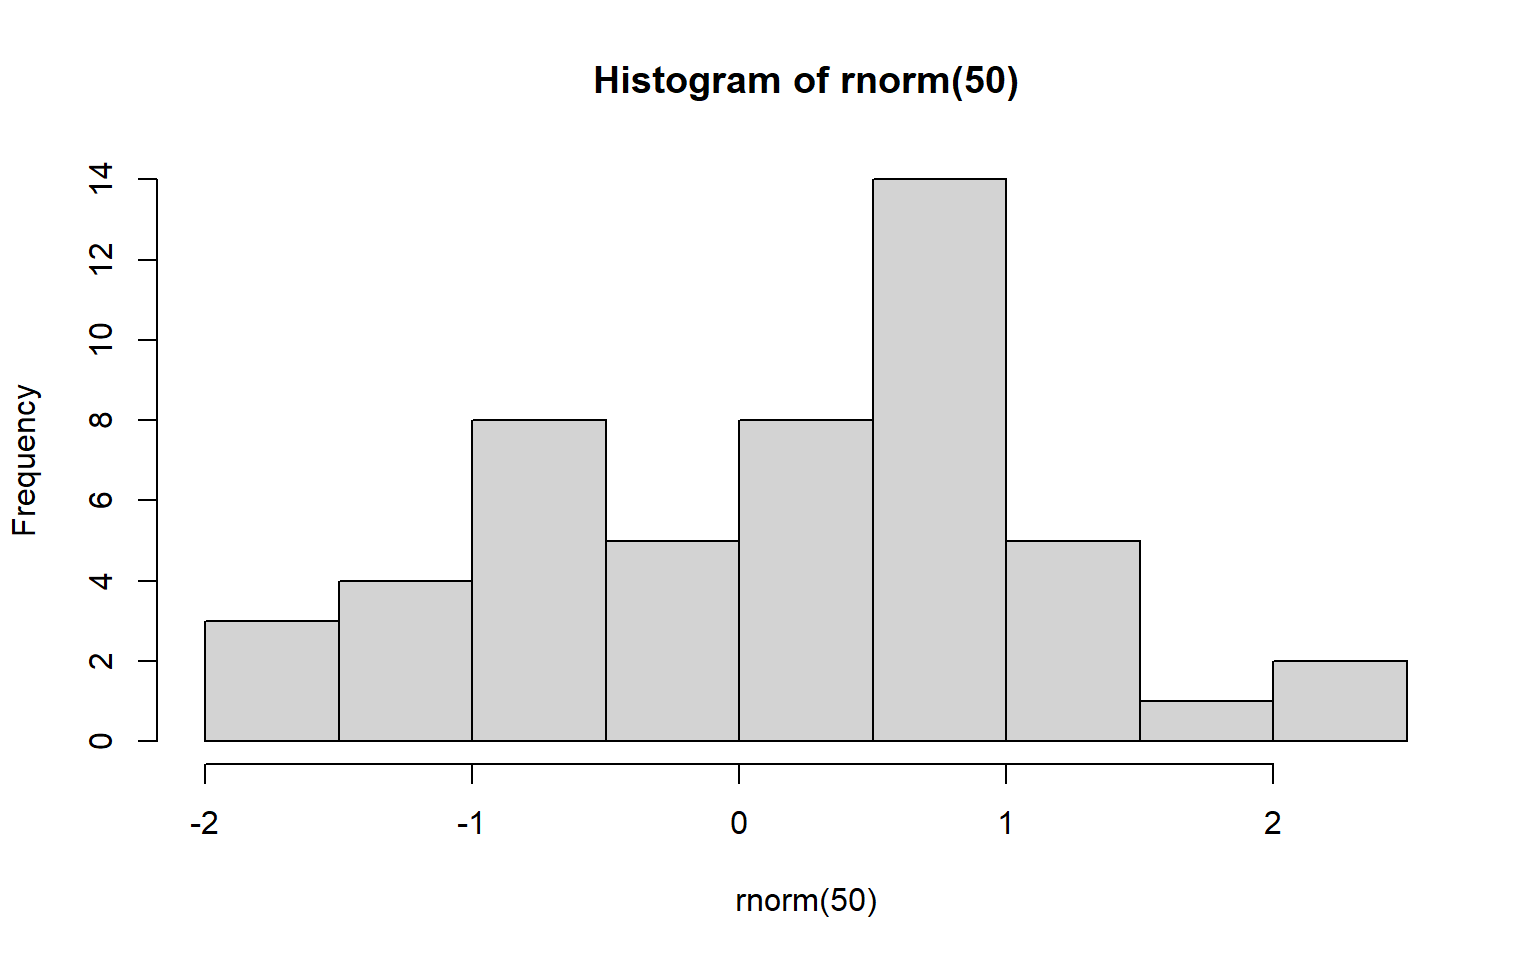
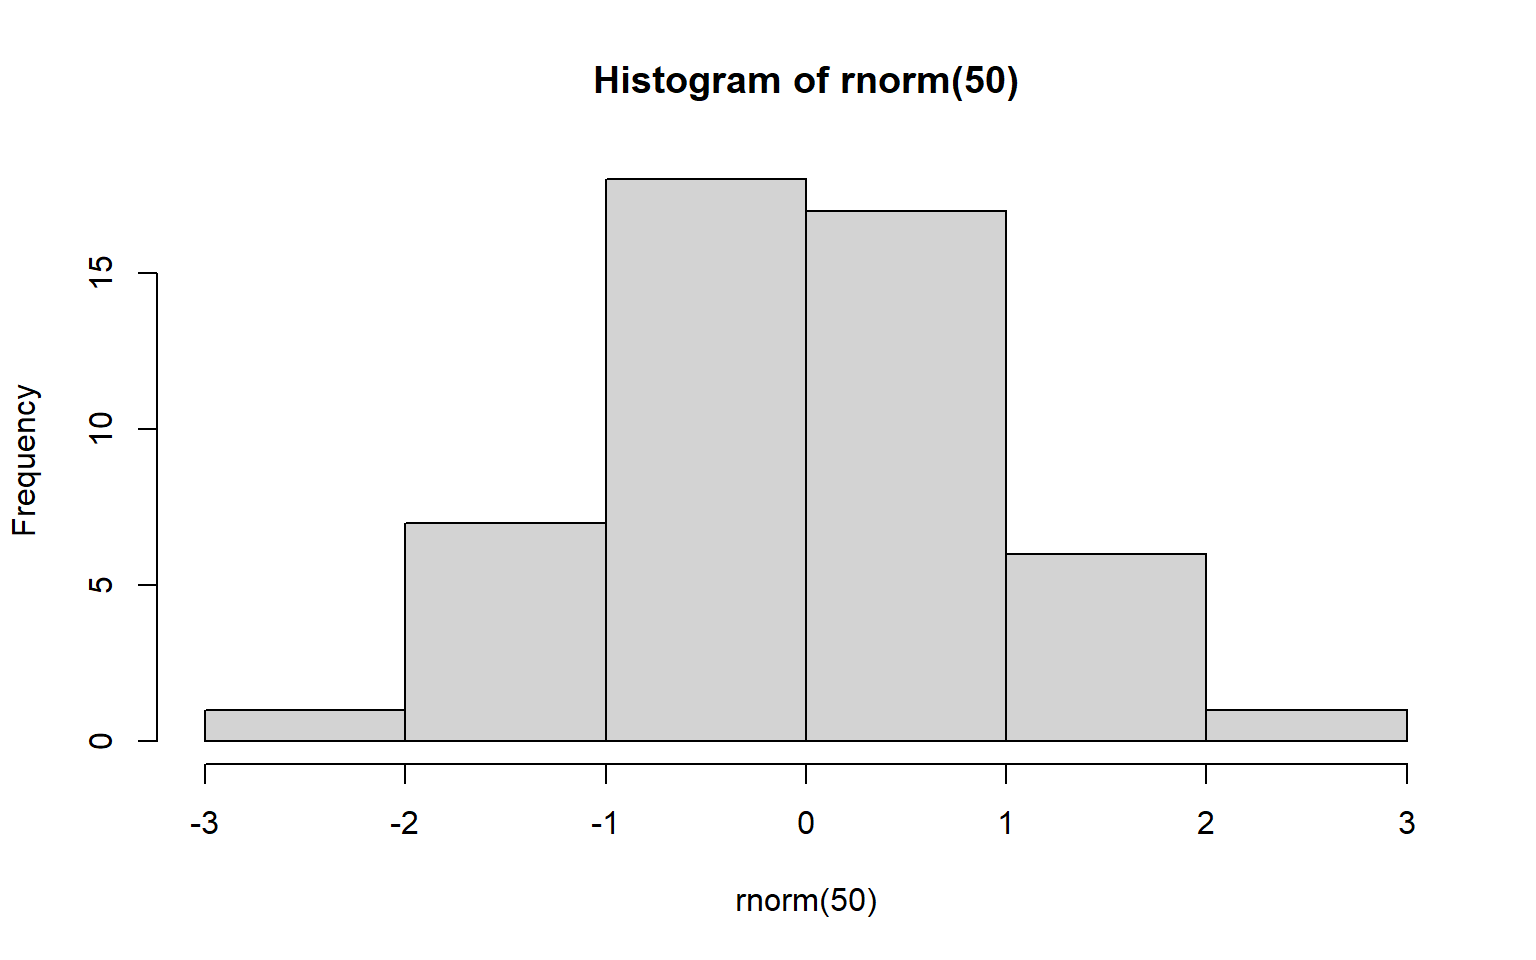
updated

diff --git a/docs/06-chap6.html b/docs/06-chap6.html
@@ -244,20 +244,13 @@ window.Quarto = {
   <li><a href="#mutually-exclusive-events" id="toc-mutually-exclusive-events" class="nav-link" data-scroll-target="#mutually-exclusive-events"><span class="header-section-number">6.14</span> Mutually Exclusive Events</a></li>
   <li><a href="#exhaustive-events" id="toc-exhaustive-events" class="nav-link" data-scroll-target="#exhaustive-events"><span class="header-section-number">6.15</span> Exhaustive Events</a></li>
   <li><a href="#independent-events" id="toc-independent-events" class="nav-link" data-scroll-target="#independent-events"><span class="header-section-number">6.16</span> Independent Events</a></li>
-  <li><a href="#combinations-of-events-mutual-exclusivity-and-exhaustiveness" id="toc-combinations-of-events-mutual-exclusivity-and-exhaustiveness" class="nav-link" data-scroll-target="#combinations-of-events-mutual-exclusivity-and-exhaustiveness"><span class="header-section-number">7</span> Combinations of Events: Mutual Exclusivity and Exhaustiveness</a></li>
-  <li>
-<a href="#rules-of-probability" id="toc-rules-of-probability" class="nav-link" data-scroll-target="#rules-of-probability"><span class="header-section-number">8</span> Rules of Probability</a>
-  <ul class="collapse">
-<li><a href="#complement-rule" id="toc-complement-rule" class="nav-link" data-scroll-target="#complement-rule"><span class="header-section-number">8.1</span> 1. Complement Rule</a></li>
-  <li><a href="#addition-rule" id="toc-addition-rule" class="nav-link" data-scroll-target="#addition-rule"><span class="header-section-number">8.2</span> 2. Addition Rule</a></li>
-  <li><a href="#multiplication-rule-1" id="toc-multiplication-rule-1" class="nav-link" data-scroll-target="#multiplication-rule-1"><span class="header-section-number">8.3</span> 3. Multiplication Rule</a></li>
-  <li><a href="#law-of-total-probability" id="toc-law-of-total-probability" class="nav-link" data-scroll-target="#law-of-total-probability"><span class="header-section-number">8.4</span> 4. Law of Total Probability</a></li>
-  <li><a href="#bayes-theorem" id="toc-bayes-theorem" class="nav-link" data-scroll-target="#bayes-theorem"><span class="header-section-number">8.5</span> 5. Bayes’ Theorem</a></li>
-  <li><a href="#exercise-1" id="toc-exercise-1" class="nav-link" data-scroll-target="#exercise-1"><span class="header-section-number">8.6</span> Exercise</a></li>
-  <li><a href="#probability-distributions" id="toc-probability-distributions" class="nav-link" data-scroll-target="#probability-distributions"><span class="header-section-number">8.7</span> Probability Distributions</a></li>
-  <li><a href="#t-distribution" id="toc-t-distribution" class="nav-link" data-scroll-target="#t-distribution"><span class="header-section-number">8.8</span> t-distribution</a></li>
-  </ul>
-</li>
+  <li><a href="#combinations-of-events-mutual-exclusivity-and-exhaustiveness" id="toc-combinations-of-events-mutual-exclusivity-and-exhaustiveness" class="nav-link" data-scroll-target="#combinations-of-events-mutual-exclusivity-and-exhaustiveness"><span class="header-section-number">6.17</span> Combinations of Events: Mutual Exclusivity and Exhaustiveness</a></li>
+  <li><a href="#rules-of-probability" id="toc-rules-of-probability" class="nav-link" data-scroll-target="#rules-of-probability"><span class="header-section-number">6.18</span> Rules of Probability</a></li>
+  <li><a href="#law-of-total-probability" id="toc-law-of-total-probability" class="nav-link" data-scroll-target="#law-of-total-probability"><span class="header-section-number">6.19</span> 4. Law of Total Probability</a></li>
+  <li><a href="#bayes-theorem" id="toc-bayes-theorem" class="nav-link" data-scroll-target="#bayes-theorem"><span class="header-section-number">6.20</span> 5. Bayes’ Theorem</a></li>
+  <li><a href="#exercise-1" id="toc-exercise-1" class="nav-link" data-scroll-target="#exercise-1"><span class="header-section-number">6.21</span> Exercise</a></li>
+  <li><a href="#probability-distributions" id="toc-probability-distributions" class="nav-link" data-scroll-target="#probability-distributions"><span class="header-section-number">6.22</span> Probability Distributions</a></li>
+  <li><a href="#t-distribution" id="toc-t-distribution" class="nav-link" data-scroll-target="#t-distribution"><span class="header-section-number">6.23</span> t-distribution</a></li>
   </ul></nav>
     </div>
 <!-- main -->
@@ -442,19 +435,17 @@ P(A \cap B) = P(A) \cdot P(B)
 </span></p>
 <p><strong>Example (Zoology):</strong><br>
 The event that a <strong>sea turtle lays eggs today</strong> and the event that a <strong>crab crosses the beach</strong> are independent — one does not affect the other.</p>
-</section><section id="combinations-of-events-mutual-exclusivity-and-exhaustiveness" class="level1" data-number="7"><h1 data-number="7">
-<span class="header-section-number">7</span> Combinations of Events: Mutual Exclusivity and Exhaustiveness</h1>
+</section><section id="combinations-of-events-mutual-exclusivity-and-exhaustiveness" class="level2" data-number="6.17"><h2 data-number="6.17" class="anchored" data-anchor-id="combinations-of-events-mutual-exclusivity-and-exhaustiveness">
+<span class="header-section-number">6.17</span> Combinations of Events: Mutual Exclusivity and Exhaustiveness</h2>
 <p>In-class</p>
-</section><section id="rules-of-probability" class="level1" data-number="8"><h1 data-number="8">
-<span class="header-section-number">8</span> Rules of Probability</h1>
-<section id="complement-rule" class="level2" data-number="8.1"><h2 data-number="8.1" class="anchored" data-anchor-id="complement-rule">
-<span class="header-section-number">8.1</span> 1. Complement Rule</h2>
+</section><section id="rules-of-probability" class="level2" data-number="6.18"><h2 data-number="6.18" class="anchored" data-anchor-id="rules-of-probability">
+<span class="header-section-number">6.18</span> Rules of Probability</h2>
+<section id="complement-rule" class="level3"><h3 class="anchored" data-anchor-id="complement-rule">1. Complement Rule</h3>
 <p>The probability of the complement of an event <span class="math inline">A</span>, denoted by <span class="math inline">A^c</span>, is:</p>
 <p><span class="math display">
 P(A^c) = 1 - P(A)
 </span></p>
-</section><section id="addition-rule" class="level2" data-number="8.2"><h2 data-number="8.2" class="anchored" data-anchor-id="addition-rule">
-<span class="header-section-number">8.2</span> 2. Addition Rule</h2>
+</section><section id="addition-rule" class="level3"><h3 class="anchored" data-anchor-id="addition-rule">2. Addition Rule</h3>
 <ul>
 <li><strong>For any two events <span class="math inline">A</span> and <span class="math inline">B</span>:</strong></li>
 </ul>
@@ -467,8 +458,7 @@ P(A \cup B) = P(A) + P(B) - P(A \cap B)
 <p><span class="math display">
 P(A \cup B) = P(A) + P(B)
 </span></p>
-</section><section id="multiplication-rule-1" class="level2" data-number="8.3"><h2 data-number="8.3" class="anchored" data-anchor-id="multiplication-rule-1">
-<span class="header-section-number">8.3</span> 3. Multiplication Rule</h2>
+</section><section id="multiplication-rule-1" class="level3"><h3 class="anchored" data-anchor-id="multiplication-rule-1">3. Multiplication Rule</h3>
 <ul>
 <li><strong>Conditional probability:</strong></li>
 </ul>
@@ -487,20 +477,20 @@ P(A \cap B) = P(A \mid B) \cdot P(B)
 <p><span class="math display">
 P(A_1 \cap A_2 \cap \dots \cap A_n) = P(A_1) \cdot P(A_2 \mid A_1) \cdot \dots \cdot P(A_n \mid A_1 \cap \dots \cap A_{n-1})
 </span></p>
-</section><section id="law-of-total-probability" class="level2" data-number="8.4"><h2 data-number="8.4" class="anchored" data-anchor-id="law-of-total-probability">
-<span class="header-section-number">8.4</span> 4. Law of Total Probability</h2>
+</section></section><section id="law-of-total-probability" class="level2" data-number="6.19"><h2 data-number="6.19" class="anchored" data-anchor-id="law-of-total-probability">
+<span class="header-section-number">6.19</span> 4. Law of Total Probability</h2>
 <p>If <span class="math inline">\{B_1, B_2, \dots, B_n\}</span> is a partition of the sample space <span class="math inline">\Omega</span>, then for any event <span class="math inline">A</span>:</p>
 <p><span class="math display">
 P(A) = \sum_{i=1}^{n} P(A \mid B_i) \cdot P(B_i)
 </span></p>
-</section><section id="bayes-theorem" class="level2" data-number="8.5"><h2 data-number="8.5" class="anchored" data-anchor-id="bayes-theorem">
-<span class="header-section-number">8.5</span> 5. Bayes’ Theorem</h2>
+</section><section id="bayes-theorem" class="level2" data-number="6.20"><h2 data-number="6.20" class="anchored" data-anchor-id="bayes-theorem">
+<span class="header-section-number">6.20</span> 5. Bayes’ Theorem</h2>
 <p>For events <span class="math inline">A</span> and <span class="math inline">B_i</span> with <span class="math inline">P(B_i) &gt; 0</span>:</p>
 <p><span class="math display">
 P(B_i \mid A) = \frac{P(A \mid B_i) \cdot P(B_i)}{\sum_{j=1}^{n} P(A \mid B_j) \cdot P(B_j)}
 </span></p>
-</section><section id="exercise-1" class="level2" data-number="8.6"><h2 data-number="8.6" class="anchored" data-anchor-id="exercise-1">
-<span class="header-section-number">8.6</span> Exercise</h2>
+</section><section id="exercise-1" class="level2" data-number="6.21"><h2 data-number="6.21" class="anchored" data-anchor-id="exercise-1">
+<span class="header-section-number">6.21</span> Exercise</h2>
 <p>Question 1</p>
 <p>A wildlife researcher studies frogs in three ponds: Pond A, Pond B, and Pond C.</p>
 <p>Pond A has 50 frogs, Pond B has 30 frogs, and Pond C has 20 frogs.</p>
@@ -517,8 +507,8 @@ P(B_i \mid A) = \frac{P(A \mid B_i) \cdot P(B_i)}{\sum_{j=1}^{n} P(A \mid B_j) \
 <p>Tasks:</p>
 <p>Calculate the sensitivity of the test.</p>
 <p>Calculate the specificity of the test.</p>
-</section><section id="probability-distributions" class="level2" data-number="8.7"><h2 data-number="8.7" class="anchored" data-anchor-id="probability-distributions">
-<span class="header-section-number">8.7</span> Probability Distributions</h2>
+</section><section id="probability-distributions" class="level2" data-number="6.22"><h2 data-number="6.22" class="anchored" data-anchor-id="probability-distributions">
+<span class="header-section-number">6.22</span> Probability Distributions</h2>
 <p>Below are four commonly used distributions in zoological studies.</p>
 <section id="binomial-distribution" class="level3"><h3 class="anchored" data-anchor-id="binomial-distribution">Binomial Distribution</h3>
 <p>The <strong>Binomial distribution</strong> models the number of successes in a fixed number of independent trials, where each trial has two outcomes (success/failure).</p>
@@ -621,12 +611,12 @@ f_X(x) = \frac{1}{\sqrt{2 \pi \sigma^2}} \, e^{ - \frac{(x - \mu)^2}{2 \sigma^2}
 <pre><code>[1] 0.1586553</code></pre>
 </div>
 </div>
-</section></section><section id="t-distribution" class="level2" data-number="8.8"><h2 data-number="8.8" class="anchored" data-anchor-id="t-distribution">
-<span class="header-section-number">8.8</span> t-distribution</h2>
+</section></section><section id="t-distribution" class="level2" data-number="6.23"><h2 data-number="6.23" class="anchored" data-anchor-id="t-distribution">
+<span class="header-section-number">6.23</span> t-distribution</h2>
 <p>We will talk about this in Statistical Inference section.</p>
 
 
-</section></section></main><!-- /main --><script id="quarto-html-after-body" type="application/javascript">
+</section></main><!-- /main --><script id="quarto-html-after-body" type="application/javascript">
 window.document.addEventListener("DOMContentLoaded", function (event) {
   const toggleBodyColorMode = (bsSheetEl) => {
     const mode = bsSheetEl.getAttribute("data-mode");

diff --git a/docs/03-chap3.html b/docs/03-chap3.html
@@ -318,16 +318,15 @@ pre > code.sourceCode > span > a:first-child::before { text-decoration: underlin
 <div class="cell">
 <div class="sourceCode" id="cb8"><pre class="downlit sourceCode r code-with-copy"><code class="sourceCode R"><span><span class="fu"><a href="https://rdrr.io/r/stats/Normal.html">rnorm</a></span><span class="op">(</span><span class="fl">50</span><span class="op">)</span></span></code><button title="Copy to Clipboard" class="code-copy-button"><i class="bi"></i></button></pre></div>
 <div class="cell-output cell-output-stdout">
-<pre><code> [1]  0.866345477 -0.184289785  1.207613032 -0.798142806 -1.436703054
- [6] -1.083840334  0.975892518 -0.356689847 -0.787354877  0.612618508
-[11]  1.579110724 -0.563247255  0.076887947  0.808730932 -1.203286948
-[16] -1.137701962 -0.973520298 -1.160946685  0.515998299  0.387159272
-[21]  0.287785198 -1.241957241 -0.478132554  0.715417133 -0.926432604
-[26] -1.387297037  1.466506748 -1.556173594 -1.185497182 -0.694163929
-[31]  0.031336431 -0.234404984 -0.173295563  0.352839792 -0.079696749
-[36]  1.518836545 -0.719637669 -1.061274840 -1.319920180  1.263568103
-[41] -2.159357363  0.408753027  0.465616684 -0.272966064  0.113691925
-[46] -0.472325515 -1.480324007 -0.038835321 -0.006493186 -0.955405197</code></pre>
+<pre><code> [1]  1.25679197 -0.27731007  0.30292307 -0.24109624 -0.46913494 -0.63577640
+ [7] -0.08565422 -1.04099556 -1.67926770 -0.15901515 -0.74313752 -1.98350046
+[13] -0.05545933  0.04274313  0.35704586  0.86767823  0.33002338 -1.64847294
+[19]  0.89301591  0.77192285  0.10289986 -0.36169656  0.60472325  1.61274808
+[25]  0.10593182 -0.76848799  0.72789200 -1.91078296 -0.23948961  0.21599235
+[31] -0.63745291  1.25741376 -0.05193891 -0.14963249  1.20575337 -0.16049686
+[37]  0.90288375 -0.24081903  0.44588961 -1.15053142  0.74235750 -1.35290978
+[43] -0.54197385  1.14540803 -0.47215094 -1.52062177 -1.12982320 -0.91737375
+[49]  2.28804949  0.17714930</code></pre>
 </div>
 </div>
 <div class="cell">
